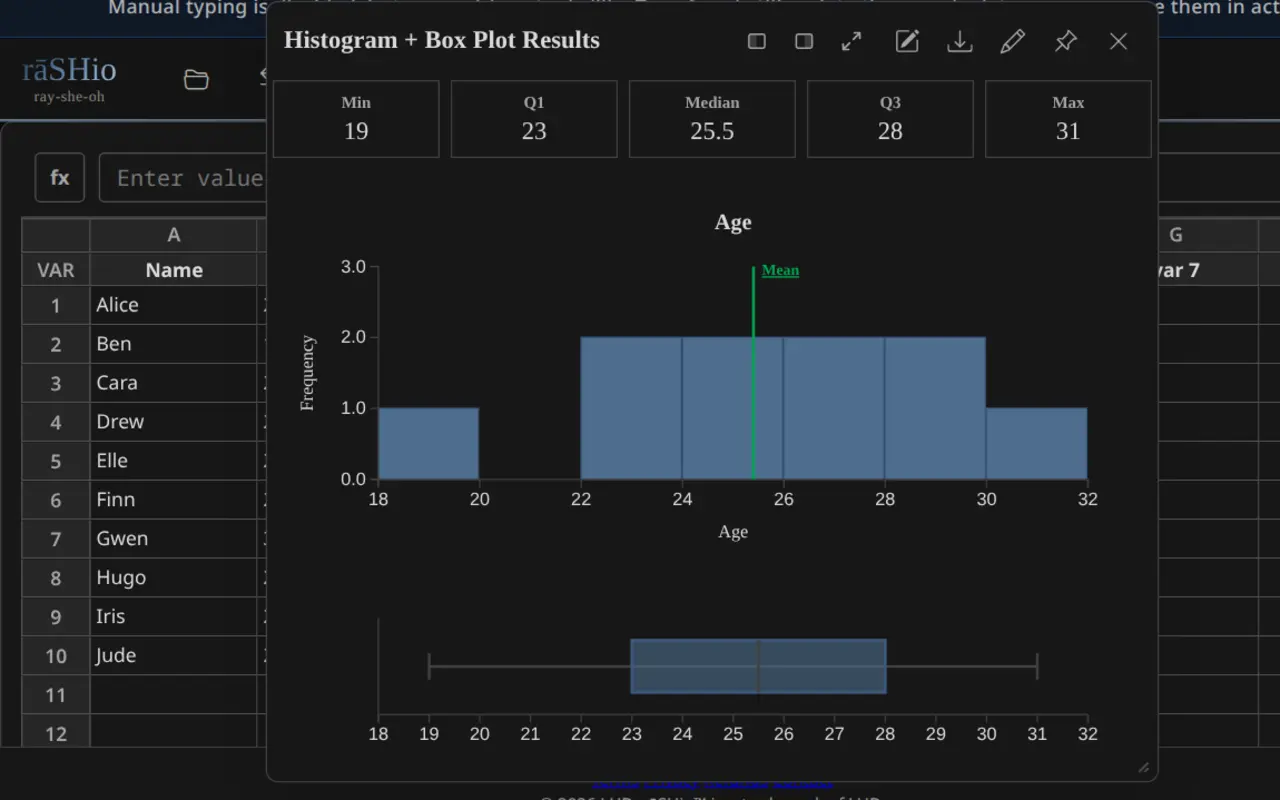
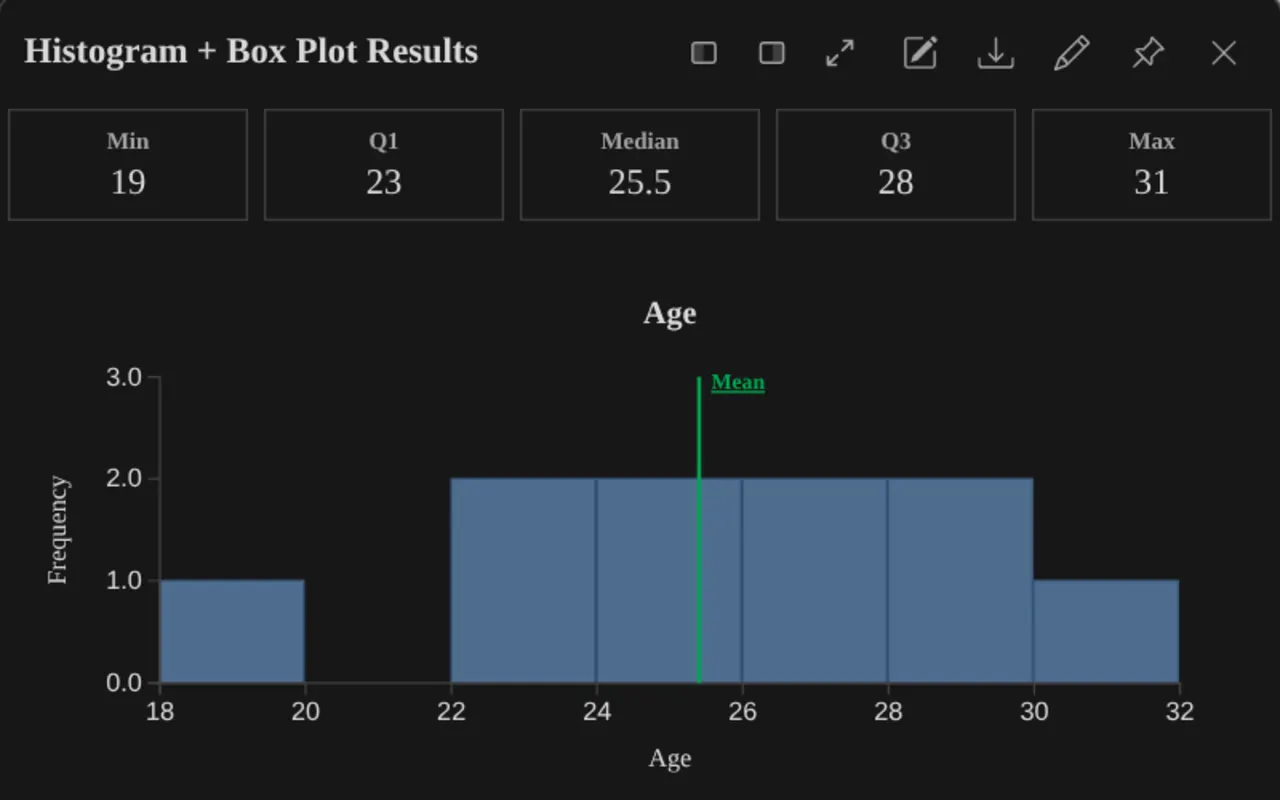
UI climb r8: undimmed prints, clean chart crop, linked loose-leaf names
Drop the dark-mode dimming film. rāSHio feature crops to the chart window
only. Phone prints keep their 16:10 framing. Shorter scorecard labels,
wider heading faces, more room between card rows and answer cards.
Loose-leaf names carry the link and a red arrow, with the whole row as
the hit area, replacing the repeated 'View source' column.

diff --git a/index.html b/index.html
@@ -194,7 +194,7 @@
     .sh { color: var(--red); }
 
     /* Live problems: an uneven bento of taped prints */
-    .problems { display: grid; grid-template-columns: 1fr; gap: 2.75rem 2rem; grid-auto-flow: dense; margin-bottom: 6rem; }
+    .problems { display: grid; grid-template-columns: 1fr; gap: 4rem 2rem; grid-auto-flow: dense; margin-bottom: 6rem; }
     @media (min-width: 760px) {
       .problems { grid-template-columns: repeat(6, 1fr); }
       .s4 { grid-column: span 4; } .s3 { grid-column: span 3; } .s2 { grid-column: span 2; }
@@ -204,14 +204,14 @@
     .prob .head { order: -1; margin-bottom: 0.9rem; }
     .feature h3 { font-size: clamp(2.4rem, 4.2vw, 3.6rem); }
     .feature p { font-size: 1.1rem; }
-    @media (prefers-color-scheme: dark) { .print img { filter: brightness(0.8) saturate(0.92); } }
+
     @media (min-width: 760px) {
       .feature { grid-column: 1 / -1; display: grid; grid-template-columns: 1.3fr 1fr; grid-template-rows: 1fr auto auto auto auto 1fr; column-gap: 3rem; row-gap: 0.6rem; }
       .feature .print { grid-column: 1; grid-row: 1 / -1; align-self: center; margin: 0; }
       .feature > :not(.print) { grid-column: 2; }
       .feature .head { grid-row: 2; } .feature > p { grid-row: 3; } .feature .given { grid-row: 4; } .feature .links { grid-row: 5; }
     }
-    @media (max-width: 759px) { .prob .print { margin-inline: 6px; } .prob .print img { aspect-ratio: 4 / 3; object-position: var(--pos, center top); } }
+    @media (max-width: 759px) { .prob .print { margin-inline: 6px; } .prob .print img { aspect-ratio: var(--ar, 16 / 10); object-position: var(--pos, center top); } }
     .prob[hidden] { display: none; }
     .prob .print { position: relative; rotate: var(--tilt, -1deg); margin-bottom: 0.5rem; padding-bottom: 0; }
     .prob .print.wide img { aspect-ratio: 1280 / 420; }
@@ -222,7 +222,7 @@
     .prob:hover .print { transform: rotate(calc(var(--tilt) * -1)) translateY(-4px); }
     .prob .head { display: flex; align-items: baseline; gap: 0.75rem; }
     .prob .n { font-family: var(--mono); font-size: 0.9rem; color: var(--ink-soft); min-width: 2.4ch; }
-    .prob h3 { margin: 0; font-size: clamp(1.9rem, 3vw, 2.6rem); letter-spacing: -0.03em; line-height: 1.05; font-weight: 750; font-stretch: 85%; }
+    .prob h3 { margin: 0; font-size: clamp(1.9rem, 3vw, 2.6rem); letter-spacing: -0.02em; line-height: 1.05; font-weight: 750; font-stretch: 94%; }
     .prob h3 a { text-decoration: underline; text-decoration-color: var(--red); text-decoration-thickness: 3px; text-underline-offset: 6px; background-image: linear-gradient(transparent 58%, color-mix(in srgb, #f3d34a 70%, transparent) 58%, color-mix(in srgb, #f3d34a 70%, transparent) 92%, transparent 92%); background-size: 0% 100%; background-repeat: no-repeat; transition: background-size .45s cubic-bezier(.6,.05,.3,1); }
     @media (prefers-color-scheme: dark) { .prob h3 a { background-image: linear-gradient(transparent 58%, rgba(255,132,102,.32) 58%, rgba(255,132,102,.32) 92%, transparent 92%); } }
     .prob:hover h3 a, .prob h3 a:focus-visible { background-size: 100% 100%; }
@@ -249,26 +249,30 @@
     .ll-group:last-of-type .looseleaf { margin-bottom: 2.5rem; }
     .grp { margin: 0 0 0.55rem; font-family: var(--mono); font-size: 0.85rem; font-weight: 700; letter-spacing: 0.1em; text-transform: uppercase; color: var(--ink); line-height: 1; }
     .grp::before { content: ""; display: inline-block; width: 0.7em; height: 0.7em; margin-right: 0.5em; background: var(--red); vertical-align: -0.05em; }
-    .looseleaf li { display: grid; align-items: baseline; grid-template-columns: 1.6rem 1fr; gap: 0 0.5rem; padding: 1.15rem 0; border-bottom: 1px solid color-mix(in srgb, var(--ink) 18%, transparent); }
+    .looseleaf li { display: grid; align-items: baseline; grid-template-columns: 1.6rem 1fr; gap: 0 0.5rem; padding: 1.15rem 0; border-bottom: 1px solid color-mix(in srgb, var(--ink) 26%, transparent); }
     .looseleaf li[hidden] { display: none; }
-    @media (min-width: 760px) { .looseleaf li { grid-template-columns: 3rem 14rem 1fr auto; column-gap: 2rem; align-items: baseline; } }
+    @media (min-width: 760px) { .looseleaf li { grid-template-columns: 3rem 15rem minmax(0, 44rem); column-gap: 2rem; align-items: baseline; } }
     .looseleaf .n { font-family: var(--mono); color: var(--ink-soft); font-size: 0.9rem; }
-    .looseleaf h3 { margin: 0; font-size: 1.5rem; letter-spacing: -0.02em; font-weight: 700; font-stretch: 85%; }
+    .looseleaf h3 { margin: 0; font-size: 1.4rem; letter-spacing: -0.01em; font-weight: 700; font-stretch: 100%; }
     .looseleaf p { margin: 0.2rem 0 0; color: var(--ink-soft); grid-column: 2; }
-        .looseleaf .src { grid-column: 2; justify-self: start; margin-top: 0.5rem; font-family: var(--mono); font-size: 0.88rem; font-weight: 600; color: var(--ink); text-decoration: underline; text-decoration-color: var(--red); text-decoration-thickness: 2px; text-underline-offset: 5px; white-space: nowrap; padding: 0.3rem 0; }
-    .looseleaf .src:hover { color: var(--red); }
-    @media (min-width: 760px) { .looseleaf .src { grid-column: auto; margin-top: 0; margin-left: 1.5rem; } }
-    @media (max-width: 759px) { .looseleaf li { grid-template-columns: auto 1fr; } .looseleaf li > p, .looseleaf li > .src { grid-column: 1 / -1; } }
+        .looseleaf li { position: relative; }
+    .looseleaf h3 a { text-decoration: none; }
+    .looseleaf h3 a::after { content: ""; position: absolute; inset: 0; }
+    .looseleaf .arr { color: var(--red); font-weight: 600; }
+    .looseleaf li:hover h3 a, .looseleaf h3 a:focus-visible { text-decoration: underline; text-decoration-color: var(--red); text-decoration-thickness: 2px; text-underline-offset: 5px; }
+    .looseleaf li:hover { background: color-mix(in srgb, var(--ink) 4%, transparent); }
+    
+    @media (max-width: 759px) { .looseleaf li { grid-template-columns: auto 1fr; } .looseleaf li > p { grid-column: 1 / -1; } }
         @media (min-width: 760px) { .looseleaf p { grid-column: auto; margin: 0; } }
     
     /* Answer key: four index cards */
     .key { padding: 3rem 0 4.5rem; border-top: 2px solid var(--ink); }
     .key .sig { color: var(--red); font-weight: 300; margin-right: 0.1em; }
     .key .big { font-size: clamp(1.2rem, 2vw, 1.5rem); line-height: 1.35; font-weight: 400; color: var(--ink-soft); margin: 0.9rem 0 2rem; max-width: 40ch; }
-    .key .cards { margin: 0; padding: 0; list-style: none; counter-reset: k; display: grid; grid-template-columns: 1fr; gap: 1rem; }
+    .key .cards { margin: 0; padding: 0; list-style: none; counter-reset: k; display: grid; grid-template-columns: 1fr; gap: 1.5rem; }
     @media (min-width: 760px) { .key .cards { grid-template-columns: 1fr 1fr; gap: 1.5rem; } }
     .key .cards li { counter-increment: k; background: var(--card); border: 1px solid var(--frame-edge); border-top: 3px solid var(--red); padding: 1.2rem 1.4rem 1.3rem; }
-    .key .cards h3 { margin: 0 0 0.5rem; font-size: 1.3rem; letter-spacing: -0.01em; font-weight: 700; font-stretch: 90%; }
+    .key .cards h3 { margin: 0 0 0.5rem; font-size: 1.25rem; letter-spacing: 0; font-weight: 700; font-stretch: 100%; }
     .key .cards h3::before { content: counter(k, lower-alpha) ") "; font-family: var(--hand); font-size: 1.5rem; color: var(--red); }
     .key .cards p { margin: 0; color: color-mix(in srgb, var(--ink) 84%, var(--card)); }
     .key .cards a { color: var(--ink); font-weight: 650; text-decoration-color: var(--red); text-decoration-thickness: 2px; text-underline-offset: 4px; }
@@ -330,9 +334,9 @@
       </section>
 
       <div class="score reveal" role="group" aria-label="Scorecard">
-        <div class="grade"><span class="num">20/20</span><span class="lbl">problems attempted</span></div>
-        <div><span class="num">11</span><span class="lbl">live in a browser</span></div>
-        <div><span class="num">9</span><span class="lbl">more on GitHub</span></div>
+        <div class="grade"><span class="num">20/20</span><span class="lbl">attempted</span></div>
+        <div><span class="num">11</span><span class="lbl">live now</span></div>
+        <div><span class="num">9</span><span class="lbl">source only</span></div>
         <div><span class="num">10+</span><span class="lbl">years teaching</span></div>
       </div>
 
@@ -367,7 +371,7 @@
           </article>
 
           <article class="prob s3 reveal" data-cat="class">
-            <figure class="print"><img style="--pos: left top" src="img/vershion-card.webp" width="1280" height="800" loading="lazy" alt="verSHion: Turn anything into an exam, beside a printed linear equations quiz."><figcaption class="strip"><span class="stamp live">Live</span><span class="note" aria-hidden="true">version A, version B.</span></figcaption></figure>
+            <figure class="print"><img style="--ar: 16 / 10" src="img/vershion-card.webp" width="1280" height="800" loading="lazy" alt="verSHion: Turn anything into an exam, beside a printed linear equations quiz."><figcaption class="strip"><span class="stamp live">Live</span><span class="note" aria-hidden="true">version A, version B.</span></figcaption></figure>
             <div class="head"><span class="n">3.</span><h3><a href="https://vershion.lefthanddev.com/">ver<span class="sh">SH</span>ion</a></h3></div>
             <p>Question banks in, printed tests out. Old PDFs, scans, screenshots and Word docs become clean exams with shuffled versions and an answer key.</p>
             <span class="given"><b>Given:</b> Rust, egui, WebAssembly</span>
@@ -375,7 +379,7 @@
           </article>
 
           <article class="prob s3 reveal" data-cat="class">
-            <figure class="print"><img style="--pos: left top" src="img/shcode.webp" width="1280" height="800" loading="lazy" alt="shCode's lesson list, Chapter 1: JavaScript Fundamentals."><figcaption class="strip"><span class="stamp live">Live</span><span class="note" aria-hidden="true">the course I actually teach</span></figcaption></figure>
+            <figure class="print"><img style="--ar: 16 / 10" src="img/shcode.webp" width="1280" height="800" loading="lazy" alt="shCode's lesson list, Chapter 1: JavaScript Fundamentals."><figcaption class="strip"><span class="stamp live">Live</span><span class="note" aria-hidden="true">the course I actually teach</span></figcaption></figure>
             <div class="head"><span class="n">4.</span><h3><a href="https://shcode.pages.dev/"><span class="sh">sh</span>Code</a></h3></div>
             <p>A whole classroom platform for high school JavaScript: lessons, an in-browser editor with live autograding, join codes and per-student progress for the teacher.</p>
             <span class="given"><b>Given:</b> Next.js, CodeMirror, D1</span>
@@ -440,29 +444,29 @@
         </div>
 
         <div class="sec-title"><h2 id="loose-title">Loose-leaf</h2><span class="note" style="font-size:1.5rem" aria-hidden="true">source only. the work is shown.</span></div>
-        <p class="sec-sub">Source on GitHub, ready to clone. Several open straight from a single HTML file.</p>
+        <p class="sec-sub">Source on GitHub, ready to clone. Several open straight from a single HTML file. Each name opens its repository.</p>
         <div class="ll-group" data-cat="class">
           <h3 class="grp">The classroom</h3>
           <ol class="looseleaf">
-            <li><span class="n">12.</span><div class="nm"><h3>transforma<span class="sh">SH</span>ion</h3></div><p>Tracing paper over a coordinate grid. Slide, turn and flip it. It never names the move, because that is the student's job.</p><a class="src" href="https://github.com/shuff57/transformaSHion">View source<span aria-hidden="true"> &#8599;</span></a></li>
-            <li><span class="n">13.</span><div class="nm"><h3>ten<span class="sh">SH</span>ion</h3></div><p>A diagnostic that tells "can't start" from "won't start" from "doesn't know enough yet," and catches reading versus rushing.</p><a class="src" href="https://github.com/shuff57/tenshion">View source<span aria-hidden="true"> &#8599;</span></a></li>
-            <li><span class="n">14.</span><div class="nm"><h3>O.G.R.E</h3></div><p>Grades 30 written responses in minutes on a fine-tuned local model. Student data never touches a cloud.</p><a class="src" href="https://github.com/shuff57/O.G.R.E-OllamaGradingRubricEvaluator">View source<span aria-hidden="true"> &#8599;</span></a></li>
-            <li><span class="n">15.</span><div class="nm"><h3>vi<span class="sh">SH</span>ion</h3></div><p>Handwriting OCR for stacks of student pages, on a local llama.cpp vision server. One HTML file, no build.</p><a class="src" href="https://github.com/shuff57/viSHion">View source<span aria-hidden="true"> &#8599;</span></a></li>
-            <li><span class="n">16.</span><div class="nm"><h3>syllabus-quickref</h3></div><p>The syllabus a student reads in ninety seconds and a parent searches in ten. Every fact traces back to the source.</p><a class="src" href="https://github.com/shuff57/syllabus-quickref">View source<span aria-hidden="true"> &#8599;</span></a></li>
+            <li><span class="n">12.</span><div class="nm"><h3><a href="https://github.com/shuff57/transformaSHion">transforma<span class="sh">SH</span>ion<span class="arr" aria-hidden="true"> &#8599;</span></a></h3></div><p>Tracing paper over a coordinate grid. Slide, turn and flip it. It never names the move, because that is the student's job.</p></li>
+            <li><span class="n">13.</span><div class="nm"><h3><a href="https://github.com/shuff57/tenshion">ten<span class="sh">SH</span>ion<span class="arr" aria-hidden="true"> &#8599;</span></a></h3></div><p>A diagnostic that tells "can't start" from "won't start" from "doesn't know enough yet," and catches reading versus rushing.</p></li>
+            <li><span class="n">14.</span><div class="nm"><h3><a href="https://github.com/shuff57/O.G.R.E-OllamaGradingRubricEvaluator">O.G.R.E<span class="arr" aria-hidden="true"> &#8599;</span></a></h3></div><p>Grades 30 written responses in minutes on a fine-tuned local model. Student data never touches a cloud.</p></li>
+            <li><span class="n">15.</span><div class="nm"><h3><a href="https://github.com/shuff57/viSHion">vi<span class="sh">SH</span>ion<span class="arr" aria-hidden="true"> &#8599;</span></a></h3></div><p>Handwriting OCR for stacks of student pages, on a local llama.cpp vision server. One HTML file, no build.</p></li>
+            <li><span class="n">16.</span><div class="nm"><h3><a href="https://github.com/shuff57/syllabus-quickref">syllabus-quickref<span class="arr" aria-hidden="true"> &#8599;</span></a></h3></div><p>The syllabus a student reads in ninety seconds and a parent searches in ten. Every fact traces back to the source.</p></li>
           </ol>
         </div>
         <div class="ll-group" data-cat="make">
           <h3 class="grp">Math &amp; making</h3>
           <ol class="looseleaf">
-            <li><span class="n">17.</span><div class="nm"><h3>re<span class="sh">SH</span>ape CAD</h3></div><p>CAD in plain words, on its own B-rep kernel in Rust. A shape it can't build yet is refused in a sentence and never faked.</p><a class="src" href="https://github.com/shuff57/reshape-cad">View source<span aria-hidden="true"> &#8599;</span></a></li>
-            <li><span class="n">18.</span><div class="nm"><h3>re<span class="sh">SH</span>ape</h3></div><p>Turns STL and 3MF meshes of machined parts back into STEP solids with true analytic geometry.</p><a class="src" href="https://github.com/shuff57/reSHape">View source<span aria-hidden="true"> &#8599;</span></a></li>
+            <li><span class="n">17.</span><div class="nm"><h3><a href="https://github.com/shuff57/reshape-cad">re<span class="sh">SH</span>ape CAD<span class="arr" aria-hidden="true"> &#8599;</span></a></h3></div><p>CAD in plain words, on its own B-rep kernel in Rust. A shape it can't build yet is refused in a sentence and never faked.</p></li>
+            <li><span class="n">18.</span><div class="nm"><h3><a href="https://github.com/shuff57/reSHape">re<span class="sh">SH</span>ape<span class="arr" aria-hidden="true"> &#8599;</span></a></h3></div><p>Turns STL and 3MF meshes of machined parts back into STEP solids with true analytic geometry.</p></li>
           </ol>
         </div>
         <div class="ll-group" data-cat="lab">
           <h3 class="grp">Home lab</h3>
           <ol class="looseleaf">
-            <li><span class="n">19.</span><div class="nm"><h3>LHD Launcher</h3></div><p>A motion-forward home screen and photo screensaver for Roku TV. No root and no firmware flashing.</p><a class="src" href="https://github.com/shuff57/roku-lhd-launcher">View source<span aria-hidden="true"> &#8599;</span></a></li>
-            <li><span class="n">20.</span><div class="nm"><h3>Agent-Evo</h3></div><p>The agent framework behind the rest of this page. It reads how a session went and proposes small edits to itself.</p><a class="src" href="https://github.com/shuff57/agent-evo">View source<span aria-hidden="true"> &#8599;</span></a></li>
+            <li><span class="n">19.</span><div class="nm"><h3><a href="https://github.com/shuff57/roku-lhd-launcher">LHD Launcher<span class="arr" aria-hidden="true"> &#8599;</span></a></h3></div><p>A motion-forward home screen and photo screensaver for Roku TV. No root and no firmware flashing.</p></li>
+            <li><span class="n">20.</span><div class="nm"><h3><a href="https://github.com/shuff57/agent-evo">Agent-Evo<span class="arr" aria-hidden="true"> &#8599;</span></a></h3></div><p>The agent framework behind the rest of this page. It reads how a session went and proposes small edits to itself.</p></li>
           </ol>
         </div>
       </section>
